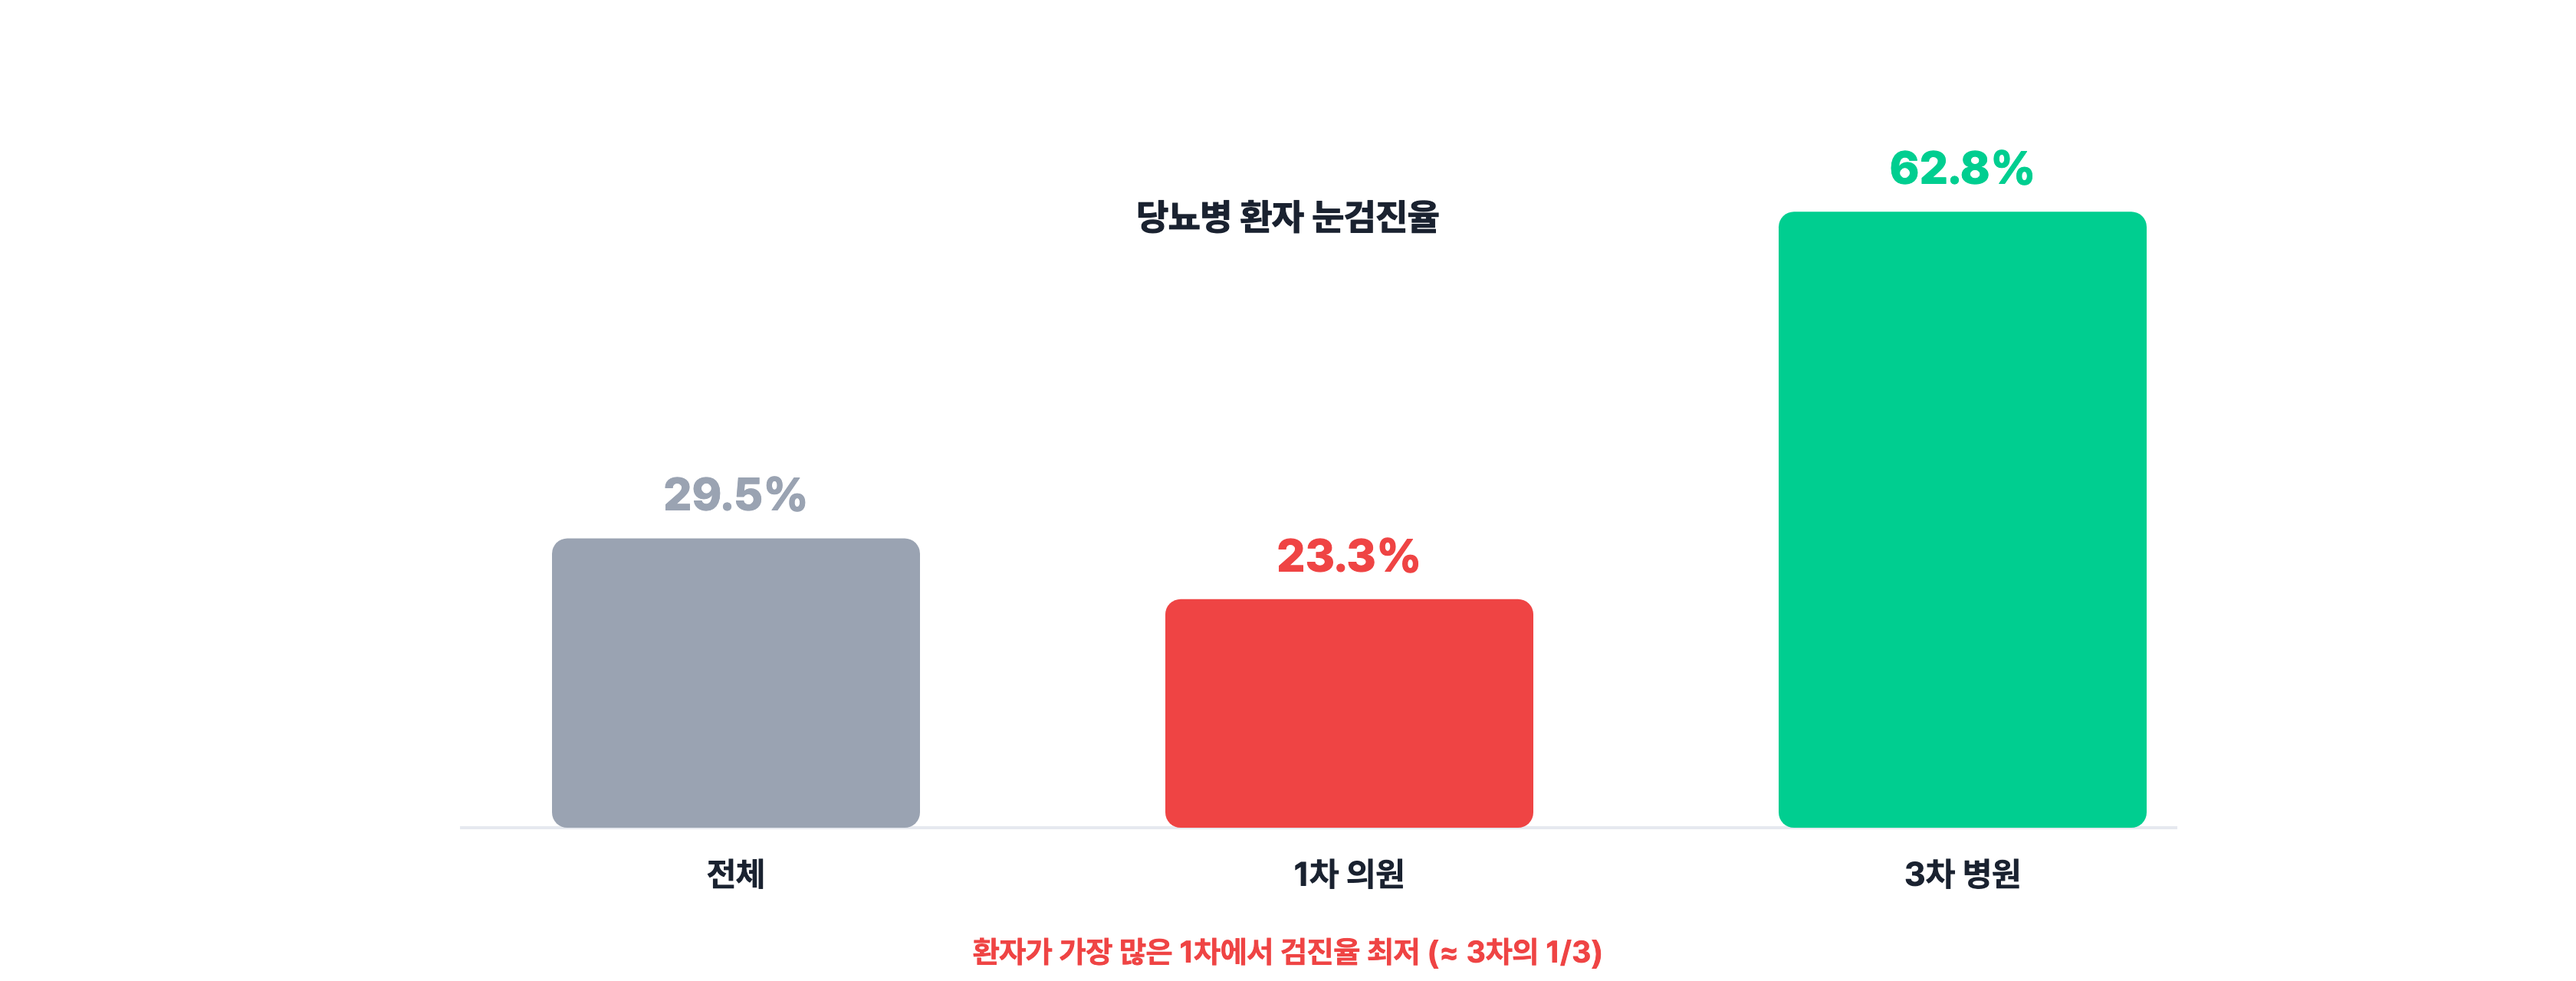
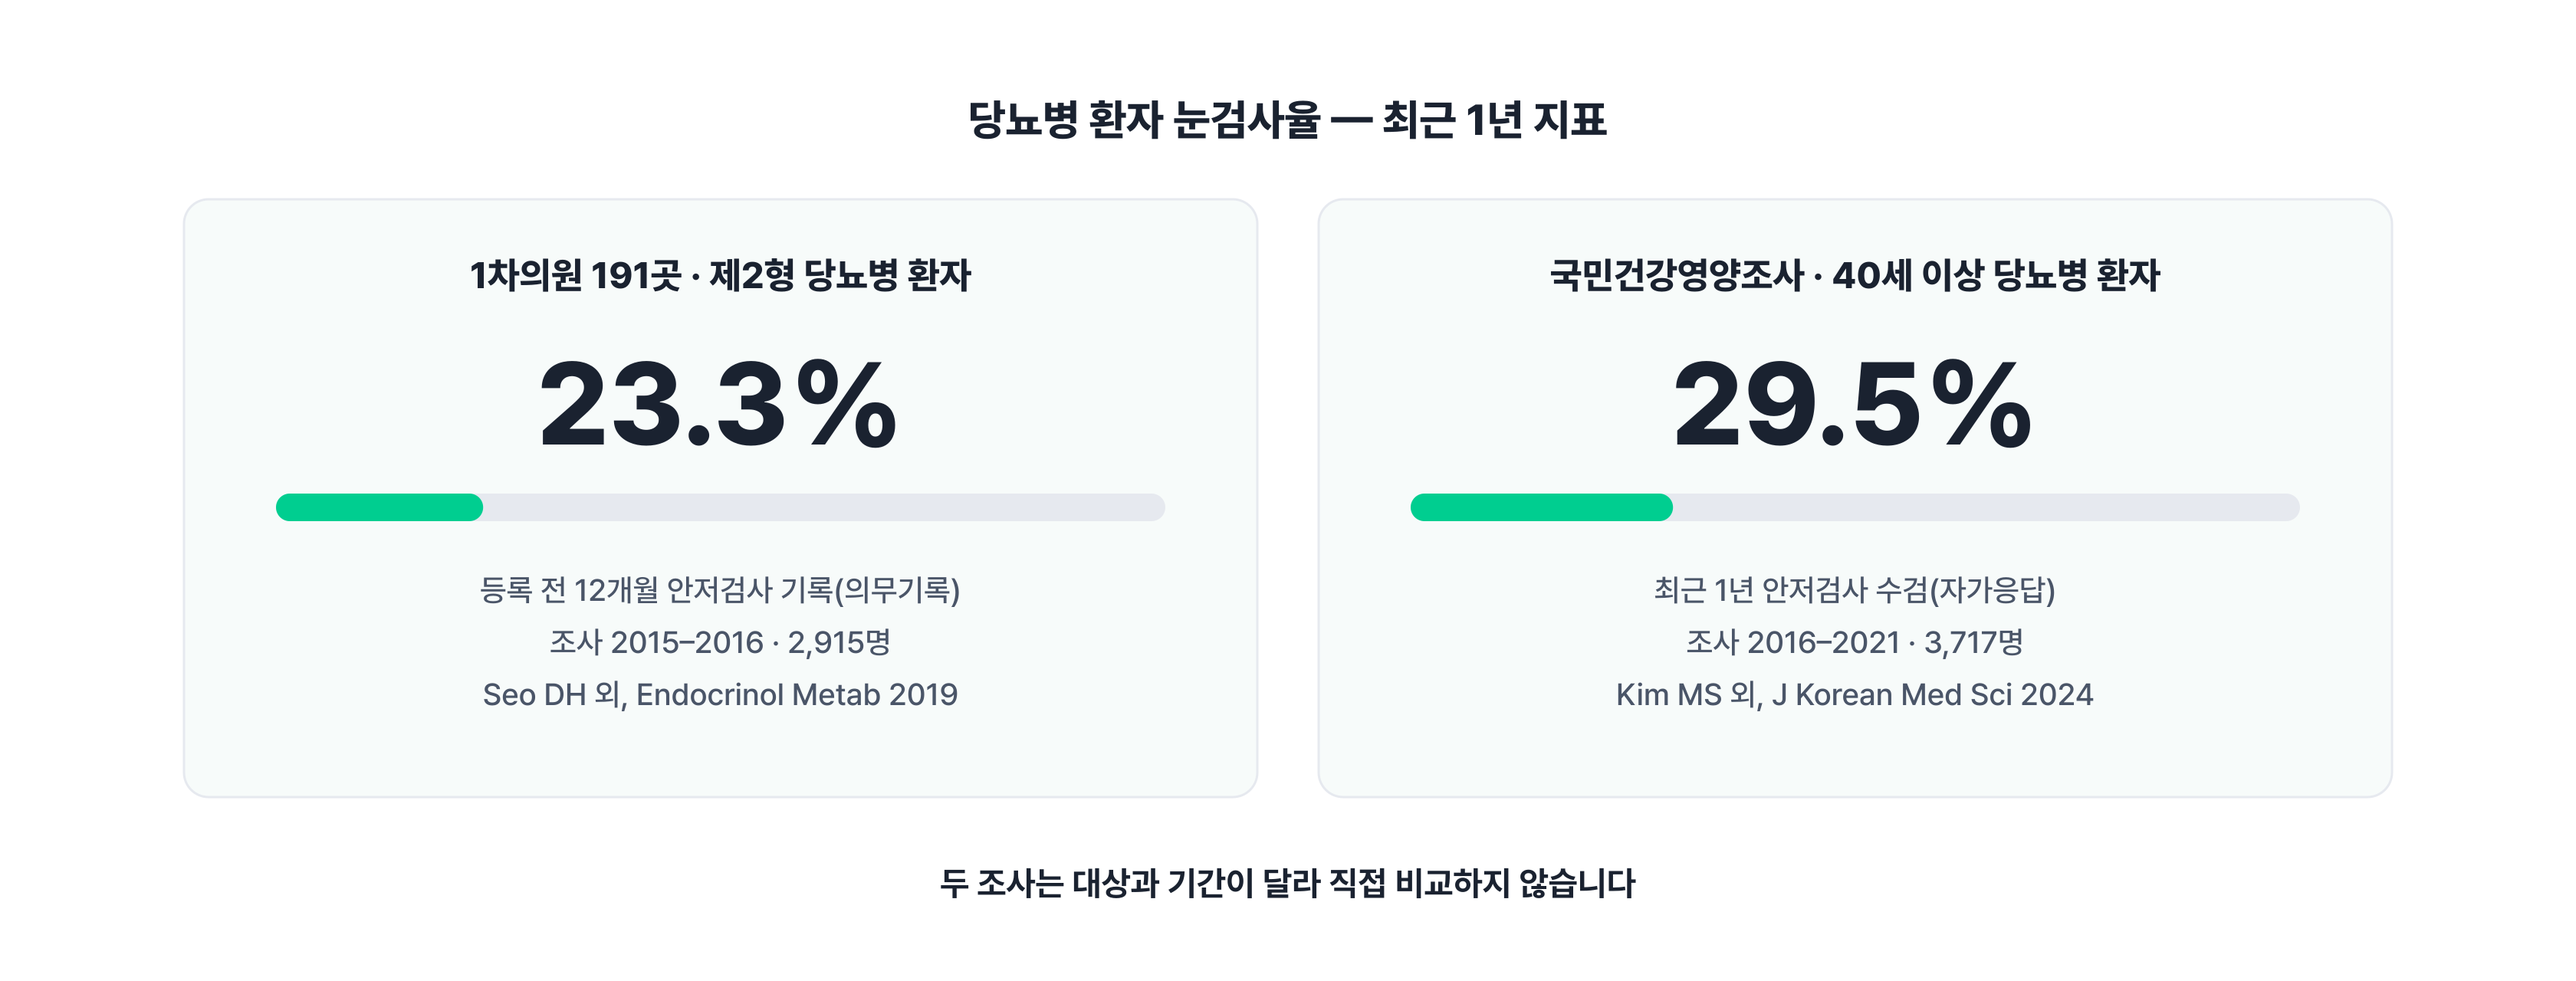
Replace screening-gap diagram with per-indicator version (same URL)
The old chart put three DR screening rates with different bases on one
axis and labelled primary care as "about 1/3 of tertiary" (23.3% = 12-month
rate in 191 primary clinics; 62.8% = HIRA 2-year rate in tertiary
hospitals). The new image shows only the two 1-year indicators, each with
its own definition, and states that they are not compared directly.

diff --git a/README.md b/README.md
@@ -41,7 +41,7 @@ Notion 등 외부 임베드용 공개 이미지 호스팅. 원본 관리는 afte
 | `diagrams/diag-connection-layer.png` | 개념도: 연결 계층(닫힌 고리) | https://raw.githubusercontent.com/clopai/afternoon-whitepaper-assets/main/diagrams/diag-connection-layer.png |
 | `diagrams/diag-bigpicture.png` | 개념도: 큰 그림 | https://raw.githubusercontent.com/clopai/afternoon-whitepaper-assets/main/diagrams/diag-bigpicture.png |
 | `diagrams/diag-measure-connect-use.png` | 개념도: 측정·연결·활용 | https://raw.githubusercontent.com/clopai/afternoon-whitepaper-assets/main/diagrams/diag-measure-connect-use.png |
-| `diagrams/diag-screening-gap.png` | 개념도: 검진율 격차 | https://raw.githubusercontent.com/clopai/afternoon-whitepaper-assets/main/diagrams/diag-screening-gap.png |
+| `diagrams/diag-screening-gap.png` | 개념도: 당뇨병 눈검사율 최근 1년 지표 2개(직접 비교하지 않음) | https://raw.githubusercontent.com/clopai/afternoon-whitepaper-assets/main/diagrams/diag-screening-gap.png |
 | `diagrams/diag-lineup.png` | 개념도: 검사 라인업 | https://raw.githubusercontent.com/clopai/afternoon-whitepaper-assets/main/diagrams/diag-lineup.png |
 | `diagrams/research-data-flow.png` | 리서치 데이터플로우(원내망 EDC→비식별 통계자료 전송) | https://raw.githubusercontent.com/clopai/afternoon-whitepaper-assets/main/diagrams/research-data-flow.png |
 | `diagrams/research-ecosystem.png` | 리서치 생태계(CRC·CRO·Pharma·스폰서 EDC·애프터눈 리서치 허브·전국 안과·환자) | https://raw.githubusercontent.com/clopai/afternoon-whitepaper-assets/main/diagrams/research-ecosystem.png |
@@ -52,7 +52,7 @@ Notion 등 외부 임베드용 공개 이미지 호스팅. 원본 관리는 afte
 | `diagrams/diag-connection-layer.svg` | 개념도: 연결 계층(벡터) | https://raw.githubusercontent.com/clopai/afternoon-whitepaper-assets/main/diagrams/diag-connection-layer.svg |
 | `diagrams/diag-bigpicture.svg` | 개념도: 큰 그림(벡터) | https://raw.githubusercontent.com/clopai/afternoon-whitepaper-assets/main/diagrams/diag-bigpicture.svg |
 | `diagrams/diag-measure-connect-use.svg` | 개념도: 측정·연결·활용(벡터) | https://raw.githubusercontent.com/clopai/afternoon-whitepaper-assets/main/diagrams/diag-measure-connect-use.svg |
-| `diagrams/diag-screening-gap.svg` | 개념도: 검진율 격차(벡터) | https://raw.githubusercontent.com/clopai/afternoon-whitepaper-assets/main/diagrams/diag-screening-gap.svg |
+| `diagrams/diag-screening-gap.svg` | 개념도: 당뇨병 눈검사율 최근 1년 지표 2개(직접 비교하지 않음)(벡터) | https://raw.githubusercontent.com/clopai/afternoon-whitepaper-assets/main/diagrams/diag-screening-gap.svg |
 | `diagrams/diag-lineup.svg` | 개념도: 라인업(벡터) | https://raw.githubusercontent.com/clopai/afternoon-whitepaper-assets/main/diagrams/diag-lineup.svg |
 | `curves/p13-axl-curve-male.svg` | 안축장 백분위 곡선(남) | https://raw.githubusercontent.com/clopai/afternoon-whitepaper-assets/main/curves/p13-axl-curve-male.svg |
 | `curves/p13-axl-curve-female.svg` | 안축장 백분위 곡선(여) | https://raw.githubusercontent.com/clopai/afternoon-whitepaper-assets/main/curves/p13-axl-curve-female.svg |

diff --git a/url_map.md b/url_map.md
@@ -35,7 +35,7 @@ diagrams/FLOW_안과중심_v1.png	https://raw.githubusercontent.com/clopai/after
 diagrams/DIAG_연결계층_v1.png	https://raw.githubusercontent.com/clopai/afternoon-whitepaper-assets/main/diagrams/diag-connection-layer.png
 diagrams/DIAG_큰그림_v1.png	https://raw.githubusercontent.com/clopai/afternoon-whitepaper-assets/main/diagrams/diag-bigpicture.png
 diagrams/DIAG_측정연결활용_v1.png	https://raw.githubusercontent.com/clopai/afternoon-whitepaper-assets/main/diagrams/diag-measure-connect-use.png
-diagrams/DIAG_검진율격차_v1.png	https://raw.githubusercontent.com/clopai/afternoon-whitepaper-assets/main/diagrams/diag-screening-gap.png
+diagrams/DIAG_검진율지표_v2.png	https://raw.githubusercontent.com/clopai/afternoon-whitepaper-assets/main/diagrams/diag-screening-gap.png
 diagrams/DIAG_라인업_v1.png	https://raw.githubusercontent.com/clopai/afternoon-whitepaper-assets/main/diagrams/diag-lineup.png
 diagrams/DIAG_리서치데이터플로우_v1.png	https://raw.githubusercontent.com/clopai/afternoon-whitepaper-assets/main/diagrams/research-data-flow.png
 diagrams/DIAG_리서치생태계_v1.png	https://raw.githubusercontent.com/clopai/afternoon-whitepaper-assets/main/diagrams/research-ecosystem.png
@@ -46,7 +46,7 @@ diagrams/FLOW_안과중심_v1.svg	https://raw.githubusercontent.com/clopai/after
 diagrams/DIAG_연결계층_v1.svg	https://raw.githubusercontent.com/clopai/afternoon-whitepaper-assets/main/diagrams/diag-connection-layer.svg
 diagrams/DIAG_큰그림_v1.svg	https://raw.githubusercontent.com/clopai/afternoon-whitepaper-assets/main/diagrams/diag-bigpicture.svg
 diagrams/DIAG_측정연결활용_v1.svg	https://raw.githubusercontent.com/clopai/afternoon-whitepaper-assets/main/diagrams/diag-measure-connect-use.svg
-diagrams/DIAG_검진율격차_v1.svg	https://raw.githubusercontent.com/clopai/afternoon-whitepaper-assets/main/diagrams/diag-screening-gap.svg
+diagrams/DIAG_검진율지표_v2.svg	https://raw.githubusercontent.com/clopai/afternoon-whitepaper-assets/main/diagrams/diag-screening-gap.svg
 diagrams/DIAG_라인업_v1.svg	https://raw.githubusercontent.com/clopai/afternoon-whitepaper-assets/main/diagrams/diag-lineup.svg
 P13_안축장곡선_남_v1.0.svg	https://raw.githubusercontent.com/clopai/afternoon-whitepaper-assets/main/curves/p13-axl-curve-male.svg
 P13_안축장곡선_여_v1.0.svg	https://raw.githubusercontent.com/clopai/afternoon-whitepaper-assets/main/curves/p13-axl-curve-female.svg
